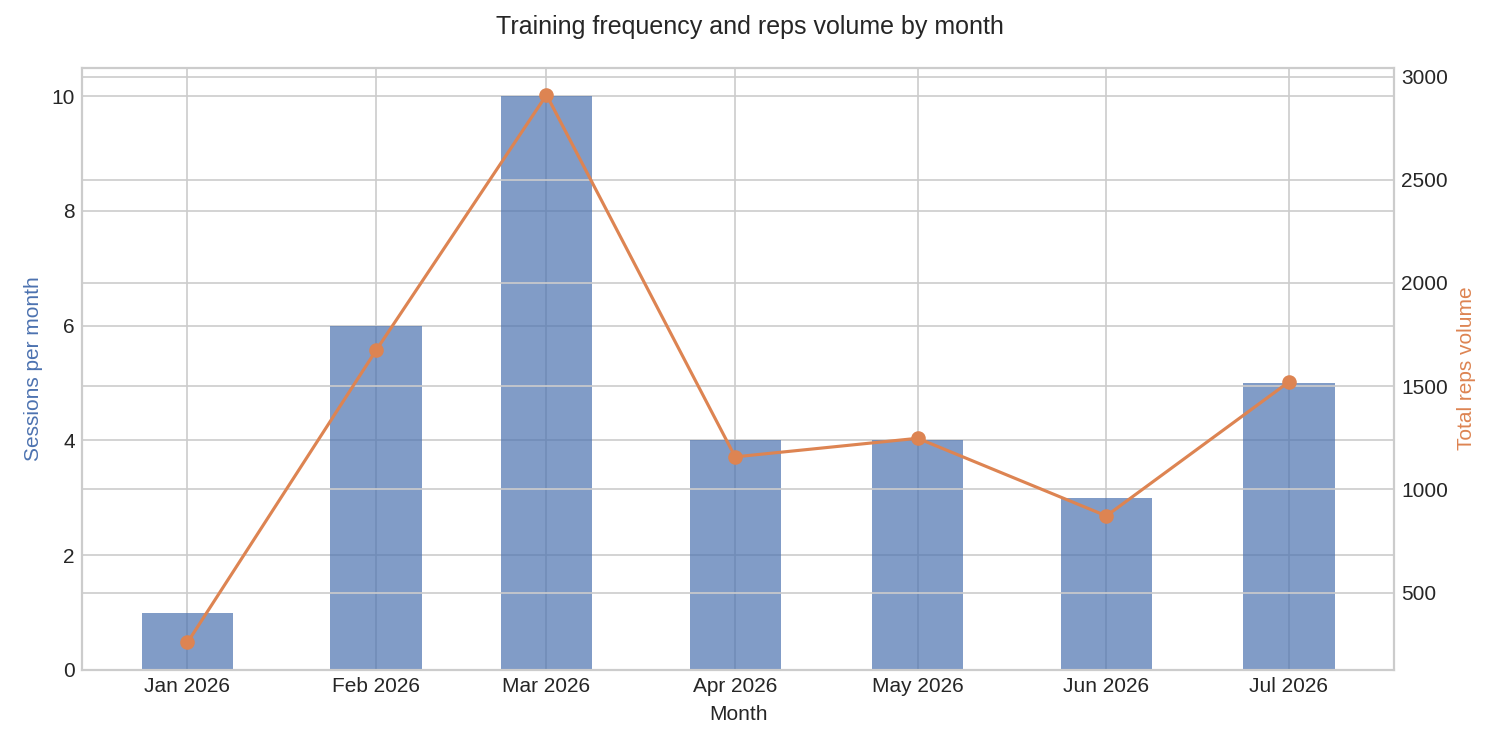
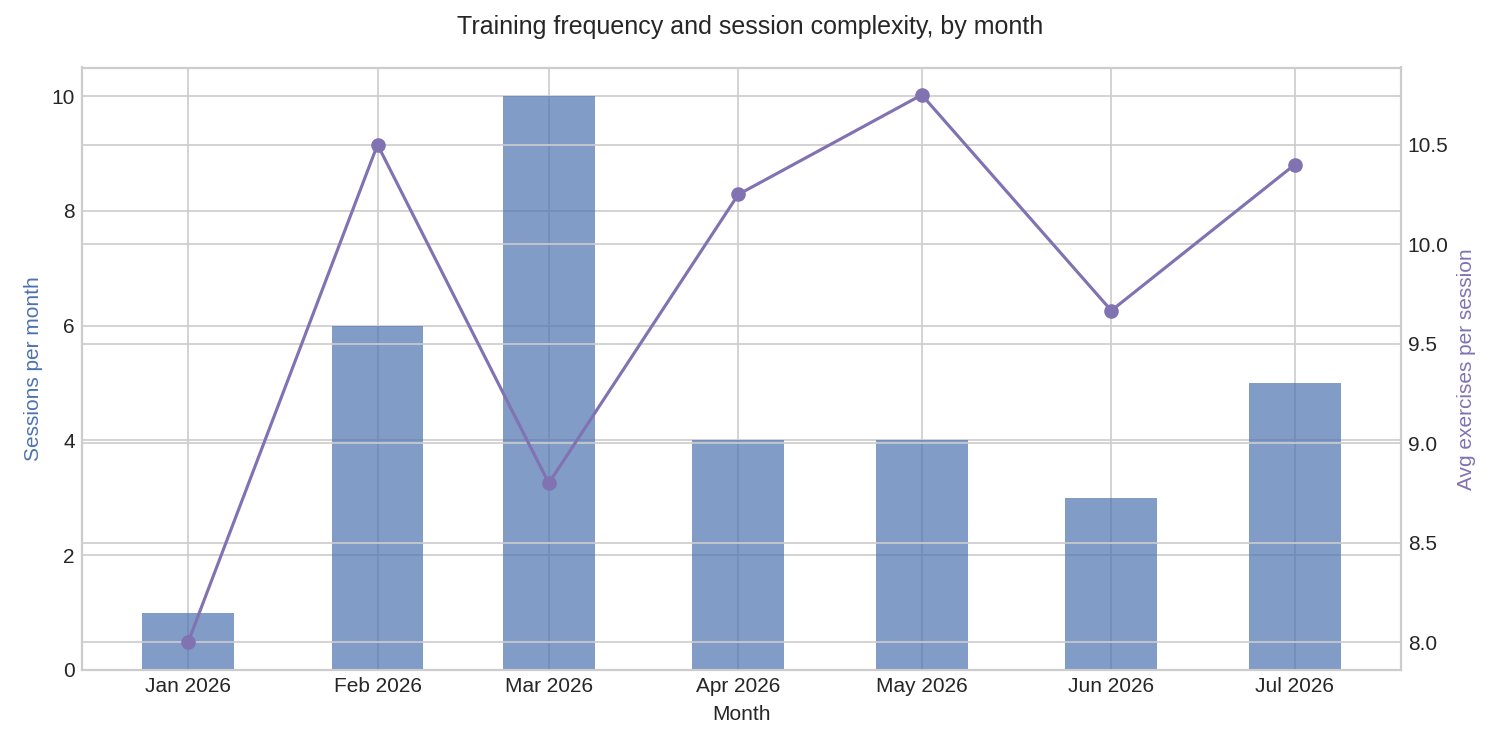
restore chart 4 alongside updated chart 1

diff --git a/analysis.py b/analysis.py
@@ -144,16 +144,17 @@ gap_summary = {
 # ---------------------------------------------------------------------------
 plt.style.use("seaborn-v0_8-whitegrid")
 
-# Chart 1: sessions per month + reps volume per month
+# Chart 1: sessions per month + average exercises per session per month
 fig, ax1 = plt.subplots(figsize=(10, 5))
 ax1.bar(monthly["session_date"], monthly["sessions"], width=15, color="#4C72B0", alpha=0.7, label="Sessions")
 ax1.set_ylabel("Sessions per month", color="#4C72B0")
 ax1.set_xlabel("Month")
 ax2 = ax1.twinx()
-ax2.plot(monthly["session_date"], monthly["reps_volume"], color="#DD8452", marker="o", label="Reps volume (rounds x reps)")
-ax2.set_ylabel("Total reps volume", color="#DD8452")
+ax2.plot(monthly["session_date"], monthly["avg_exercises_per_session"], color="#8172B2", marker="o",
+         label="Avg exercises per session")
+ax2.set_ylabel("Avg exercises per session", color="#8172B2")
 ax1.xaxis.set_major_formatter(mdates.DateFormatter("%b %Y"))
-fig.suptitle("Training frequency and reps volume by month")
+fig.suptitle("Training frequency and session complexity, by month")
 fig.tight_layout()
 fig.savefig("chart_1_volume_by_month.png", dpi=150)
 plt.close(fig)
@@ -186,7 +187,8 @@ fig.tight_layout()
 fig.savefig("chart_3_consistency_gaps.png", dpi=150)
 plt.close(fig)
 
-# Chart 4: exercises per session trend (proxy for session length/complexity)
+# Chart 4: exercises per session trend (per-session granularity, complements the
+# monthly average in chart 1)
 fig, ax = plt.subplots(figsize=(10, 5))
 ax.plot(session_agg["session_date"], session_agg["num_exercises"], marker="o", color="#8172B2")
 ax.set_title("Exercises logged per session, over time")

diff --git a/README.md b/README.md
@@ -27,17 +27,22 @@ here for transparency, not because they still affect the numbers below: all
 
 ## Findings
 
-Monthly volume (rounds x reps) grew steadily from January through March
-(259 -> 1,674 -> 2,911), settled into a lower, more stable range of roughly
-850–1,250 from April through June, then picked back up in July (1,521) with
-5 sessions — the highest monthly session count since March.
+Session count and session complexity move independently, not together.
+March had the most sessions of any month (10) but the lowest average
+exercise count per session (8.8) — the opposite of February and May, which
+had fewer, denser sessions (~10.5 exercises each). Frequency and workout
+size are not the same signal; a month that "trains a lot" isn't necessarily
+a month with harder individual sessions. (Reps volume — rounds x reps — was
+considered as a third metric but dropped from the chart: it silently
+excludes every time-based exercise, which is a meaningful share of what's
+logged here, and reads as a load metric while actually only covering part
+of the load. It's still available per-session in `session_level_summary.csv`
+for anyone who wants it with that caveat in mind.)
 
 Consistency: median gap between sessions is **4 days**, mean 5.7 days across
 33 sessions over 181 days — noticeably more frequent than once a week. There
 are two gaps over two weeks (max 22 days), so the pattern has real
-interruptions rather than being a metronomic routine. Session complexity
-(exercises per session) stayed in the 9–11 range throughout, so structure was
-consistent even during the higher- and lower-frequency stretches.
+interruptions rather than being a metronomic routine.
 
 ## Files
 
@@ -47,10 +52,10 @@ consistent even during the higher- and lower-frequency stretches.
 | `analysis.py` | Full pipeline: load -> data quality pass -> volume parsing -> aggregation -> charts |
 | `session_level_summary.csv` | One row per session: rounds, reps volume, time volume, exercise count |
 | `monthly_summary.csv` | Monthly rollup |
-| `chart_1_volume_by_month.png` | Sessions/month + reps volume/month |
+| `chart_1_volume_by_month.png` | Sessions/month + avg exercises per session/month |
 | `chart_2_rounds_per_session.png` | Total rounds per session, chronological |
 | `chart_3_consistency_gaps.png` | Days-since-last-session per session (red = >14 day gap) |
-| `chart_4_exercises_per_session.png` | Exercise count per session, chronological |
+| `chart_4_exercises_per_session.png` | Exercise count per session, chronological (per-session view; chart 1 shows the monthly average of this) |
 
 ## Reproduce
 
